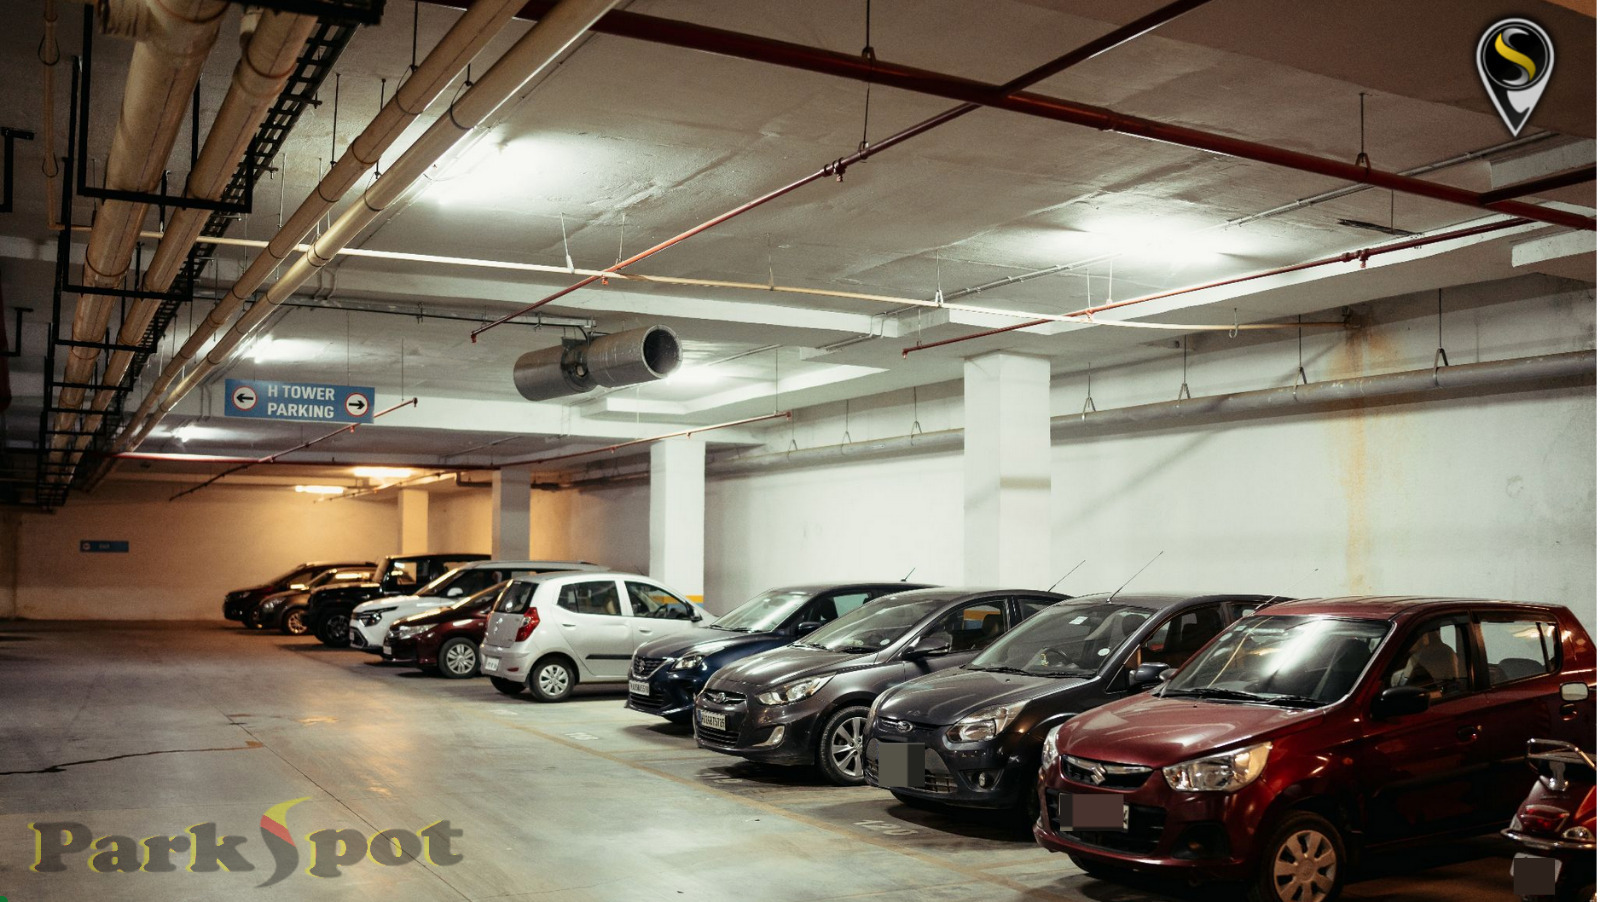
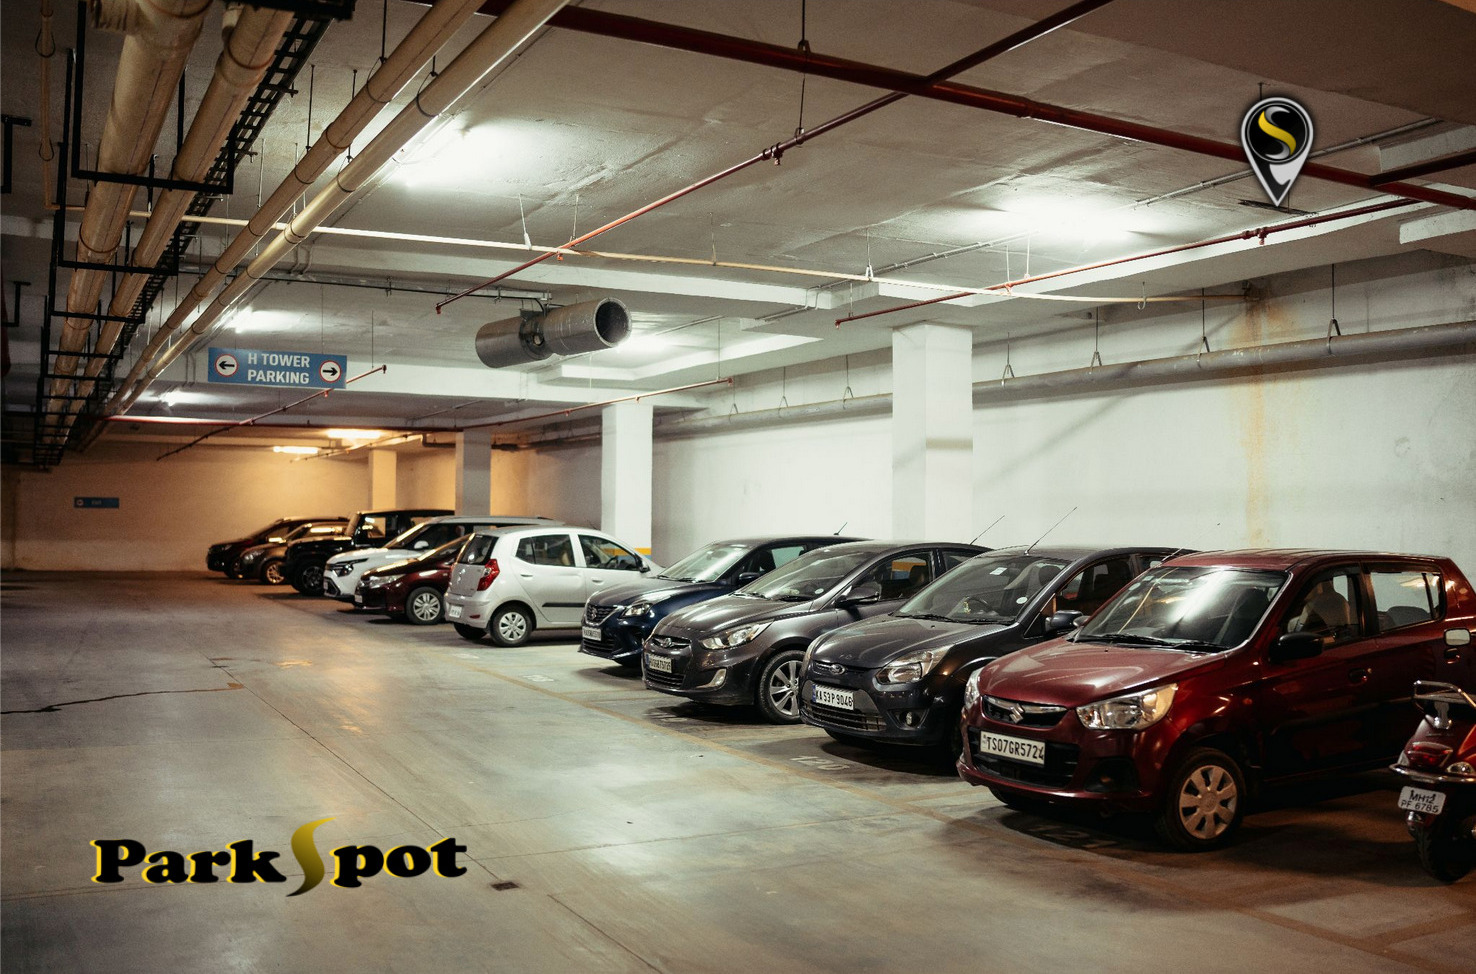
Blog[thumbnail & WebPage] image added

diff --git a/src/store/blog/index.js b/src/store/blog/index.js
@@ -7,6 +7,7 @@ const state = {
             author: 'Nikhil Surya Mukhi',
             author_img: require('@/assets/team/nik.jpg'),
             img: 'https://www.stevenvanbelleghem.com/wp-content/uploads/2020/04/Heavy-rains-lash-Delhi-NCR-traffic-snarls-at-many-places.jpg',
+            thumbnail: 'https://www.stevenvanbelleghem.com/wp-content/uploads/2020/04/Heavy-rains-lash-Delhi-NCR-traffic-snarls-at-many-places.jpg',
             desc: `In the recent years all over the globe production 
                 and demand for motor vehicles has increased dramatically.
                 Earlier motor vehicles...`,
@@ -20,6 +21,7 @@ const state = {
             author: 'Sujeet Kumar',
             author_img: require('@/assets/team/sujeet.jpg'),
             img: require('@/assets/blog/blog2.jpg'),
+            thumbnail: require('@/assets/blog/blog2.jpg'),
             desc: `Parking has been a major concern in major cities. Due
                 to fewer parking spaces, people have to spend a lot of time
                 searching for the...`,
@@ -33,6 +35,7 @@ const state = {
             author: 'Ishwar Kumar',
             author_img: require('@/assets/team/ish.jpg'),
             img: require('@/assets/blog/blog3.jpg'),
+            thumbnail: require('@/assets/blog/blog3.jpg'),
             desc: `Parking problems have always been an issue and this issue
                 has grown exponentially with the increase of population.
                 In order to tackl...`,
@@ -46,6 +49,7 @@ const state = {
             author: 'Sudhanshu Kumar',
             author_img: require('@/assets/team/sud.jpg'),
             img: require('@/assets/blog/blog4.jpg'),
+            thumbnail: require('@/assets/blog/blog4-thumbnail.jpg'),
             desc: `Are you looking for a way to earn some extra income without putting 
                 in a lot of effort? If so, consider renting out your parking space. 
                 Whether you have an unused driv...`,
@@ -59,6 +63,7 @@ const state = {
             author: 'Nitya Agrawal',
             author_img: require('@/assets/team/ish.jpg'),
             img: require('@/assets/blog/blog5.jpg'),
+            thumbnail: require('@/assets/blog/blog5.jpg'),
             desc: `Are you tired of endlessly circling the block in search of a parking spot? 
                 Fear not, because in this vlog we'll be sharing some tips and tricks for 
                 finding the perfect parking spot...`,
@@ -72,6 +77,7 @@ const state = {
             author: 'Nitya Agrawal',
             author_img: require('@/assets/team/ish.jpg'),
             img: require('@/assets/blog/blog6.jpg'),
+            thumbnail: require('@/assets/blog/blog6-thumbnail.jpg'),
             desc: `Introducing Parkspot Upsurge of Renters in Bengaluru's Affluent Areas 
                 Standalone house rentals are gaining traction in Bengaluru's elite localities
                 like HSR Layout, Koramangala.... `,

diff --git a/src/components/molecules/MoleculeBlogCard.vue b/src/components/molecules/MoleculeBlogCard.vue
@@ -3,7 +3,7 @@
         <div class="img-wrapper blog-image">
             <AtomImage
                 :alt="'image'"
-                :src="blog.img"
+                :src="blog.thumbnail"
                 :ratio="'5by4'"
                 class="image-container"
             ></AtomImage>
